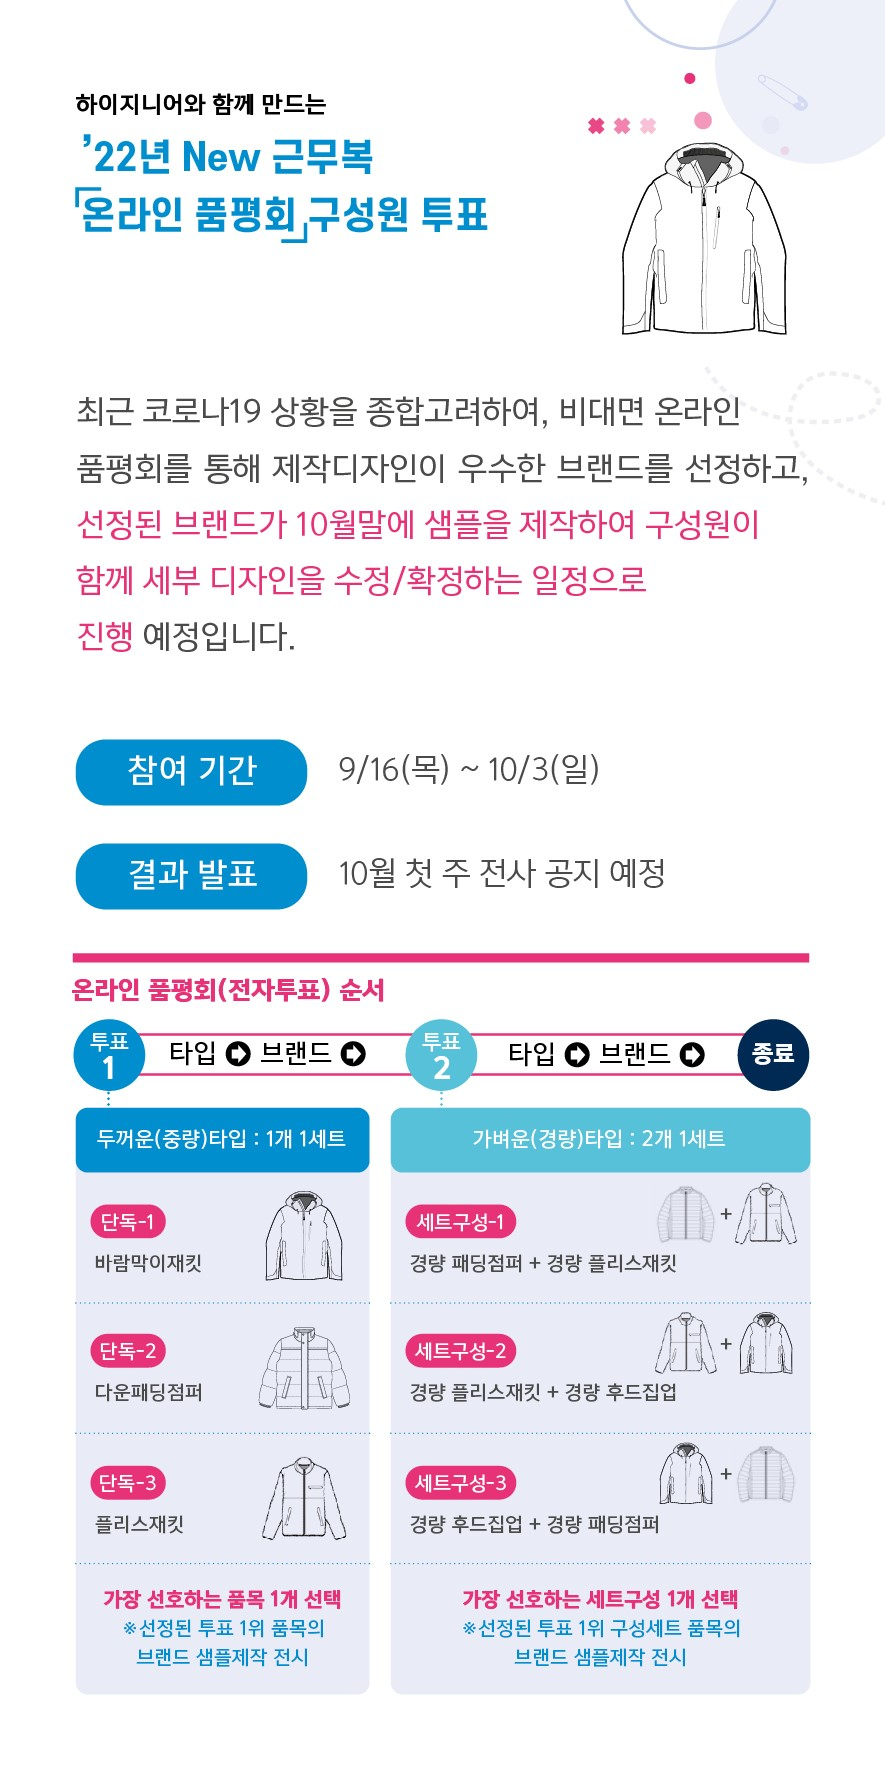
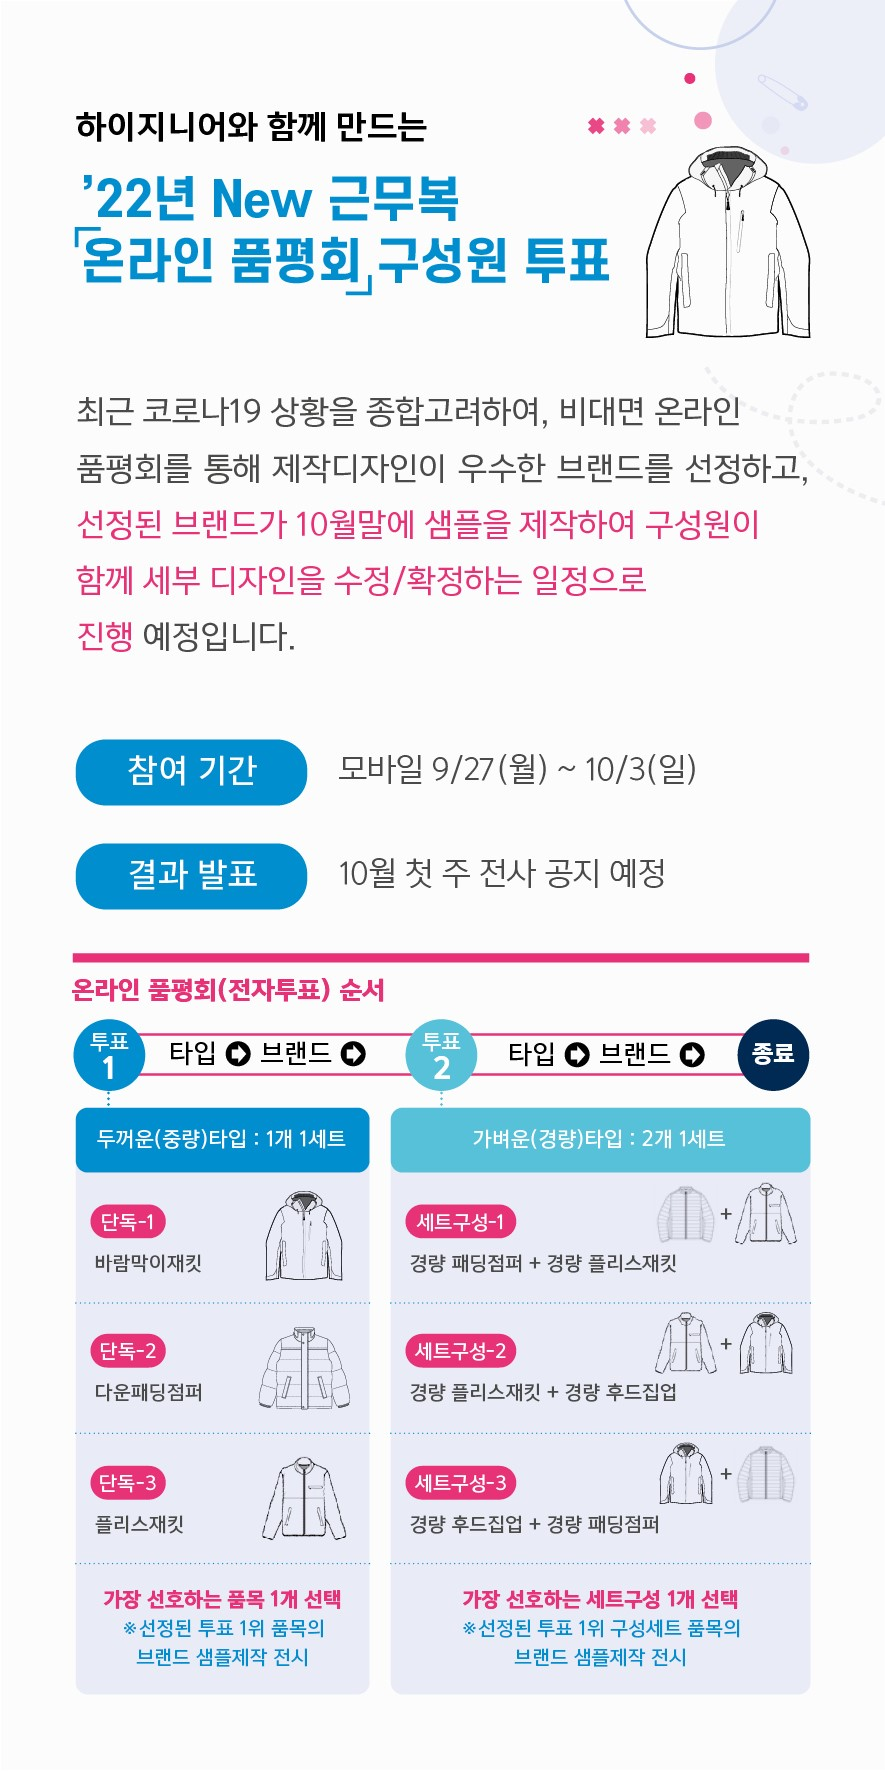
text changed

diff --git a/src/question4.js b/src/question4.js
@@ -17,11 +17,11 @@ function Question4() {
     let beforeAns = data.mainReducer.ans3;
     let type;
     if(beforeAns==="1"){
-        type="경량 패딩+경량 플리스";
+        type="세트구성1(경량 패딩점퍼+경량 플리스재킷)";
     }else if(beforeAns==="2"){
-        type="경량 플리스+경량 후드집업";
+        type="세트구성2(경량 플리스재킷+경량 후드집업)";
     }else{
-        type="경량 후드집업+경량 패딩";
+        type="세트구성3(경량 후드집업+경량 패딩점퍼)";
     }
 
     const doSubmitBtn = () => {
@@ -41,7 +41,7 @@ function Question4() {
                 // alert("품평회를 완료하였습니다.");
                 let modal = document.getElementById("modal");
                 modal.style.display="flex";
-                console.log(modal);
+                // console.log(modal);
                 // history.push("./");
             })
             .catch((result)=>{
@@ -67,7 +67,7 @@ function Question4() {
             <div className="quesSet">
                 <input type="radio" id="question01" name="question"/>
                 <label htmlFor="question01">
-                    <span>4. 가장선호하는 세트구성1({type})‘제작디자인&브랜드’는?</span><span>(1개 선택)</span>
+                    <span>4. 가장선호하는 {type} 중 가장 마음에 드는‘New 근무복 제작디자인&브랜드’는?</span><span>(1개 선택)</span>
                 </label>
                 <div className="answer">
                     <input type="radio"id="answer01_1" name="answer01" value="1"/>

diff --git a/src/login.js b/src/login.js
@@ -5,7 +5,6 @@ import './assets/css/login.css';
 import hystecLogo from './assets/images/SK-hynix_RGB_EN.png';
 import checkList from './assets/images/surveylogo_big.png';
 import mouse from './assets/images/touch-svgrepo-com.svg';
-import search from './assets/images/search-solid.svg';
 import action from './reducers/reducer'
 function Login() {
 
@@ -67,7 +66,7 @@ function Login() {
                     <span>카탈로그 다운로드</span>
                     <span>(09/16 SkyNet 전사공지된 '카탈로그'와 동일함)</span>
                 </a>
-                <img src={search} alt="search"/>
+                <img src={mouse} alt="mouse"/>
             </div>
             <div className="submitDiv">
                 <input id="loginID" type="text" placeholder="사번을 입력하세요" maxLength="7" />
@@ -81,7 +80,8 @@ function Login() {
             </div>
             <div className="subInfoDiv">
                 <ol>
-                    <li>모바일 참여기간 : '21.09.27 ~ 10.0 ㅊ참여 가능</li>
+                    <li>참여기간 : '21.09.27 ~ 10.03</li>
+                    <li>'PC(EGSS)' 또는 '모바일' 중 1회만 참여 가능</li>
                 </ol>
             </div>
         </div>

diff --git a/src/question3.js b/src/question3.js
@@ -29,11 +29,11 @@ function Question3() {
                 </label>
                 <div className="answer">
                     <input type="radio"id="answer01_1" name="answer01" value="1"/>
-                    <label htmlFor="answer01_1">경량 패딩 + 경량 플리스</label>
+                    <label htmlFor="answer01_1"><span>세트구성1</span><span>(경량 패딩점퍼 + 경량 플리스재킷)</span></label>
                     <input type="radio"id="answer01_2" name="answer01" value="2"/>
-                    <label htmlFor="answer01_2">경량 플리스 + 경량 후드집업</label>
+                    <label htmlFor="answer01_2"><span>세트구성2</span><span>(경량 플리스재킷 + 경량 후드집업)</span></label>
                     <input type="radio"id="answer01_3" name="answer01" value="3"/>
-                    <label htmlFor="answer01_3">경량 후드집업 + 경량 패딩</label>
+                    <label htmlFor="answer01_3"><span>세트구성3</span><span>(경량 후드집업 + 경량 패딩점퍼)</span></label>
                 </div>
             </div>
             <div className="buttonSet">

diff --git a/src/question2.js b/src/question2.js
@@ -17,11 +17,11 @@ function Question2() {
     let [viewSample,setViewSample] = useState('male');
 
     if(beforeAns==="1"){
-        type="바람막이";
+        type="바람막이재킷";
     }else if(beforeAns==="2"){
-        type="패딩점퍼";
+        type="다운패딩점퍼";
     }else{
-        type="플리스자켓";
+        type="플리스재킷";
     }
 
     const doNextBtn = () => {
@@ -45,7 +45,7 @@ function Question2() {
             <div className="quesSet">
                 <input type="radio" id="question01" name="question"/>
                 <label htmlFor="question01">
-                    <span>2. 가장선호하는 {type}‘제작디자인&브랜드’는?</span><span>(1개 선택)</span>
+                    <span>2. 아래 '{type}' 중 가장 마음에 드는 ‘New 근무복 제작디자인&브랜드’는?</span><span>(1개 선택)</span>
                 </label>
                 <div className="answer">
                     <input type="radio"id="answer01_1" name="answer01" value="1"/>

diff --git a/src/question.js b/src/question.js
@@ -34,11 +34,11 @@ function Question() {
                 </label>
                 <div className="answer">
                     <input type="radio"id="answer01_1" name="answer01" value="1"/>
-                    <label htmlFor="answer01_1">바람막이</label>
+                    <label htmlFor="answer01_1">바람막이재킷</label>
                     <input type="radio"id="answer01_2" name="answer01" value="2"/>
-                    <label htmlFor="answer01_2">패딩점퍼</label>
+                    <label htmlFor="answer01_2">다운패딩점퍼</label>
                     <input type="radio"id="answer01_3" name="answer01" value="3"/>
-                    <label htmlFor="answer01_3">플리스자켓</label>
+                    <label htmlFor="answer01_3">플리스재킷</label>
                 </div>
             </div>
             <div className="buttonSet">

diff --git a/src/assets/css/question.css b/src/assets/css/question.css
@@ -93,3 +93,8 @@ label[for*=question]>span:nth-child(2) {
     width:100%;
 
 }
+label[for*=answer]>span:nth-child(2) {
+    font-size:small;
+    font-weight: normal;
+    margin-left:0.5rem;
+}
